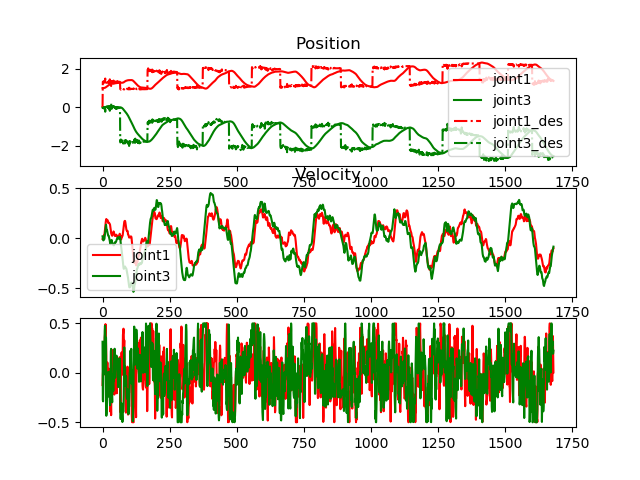
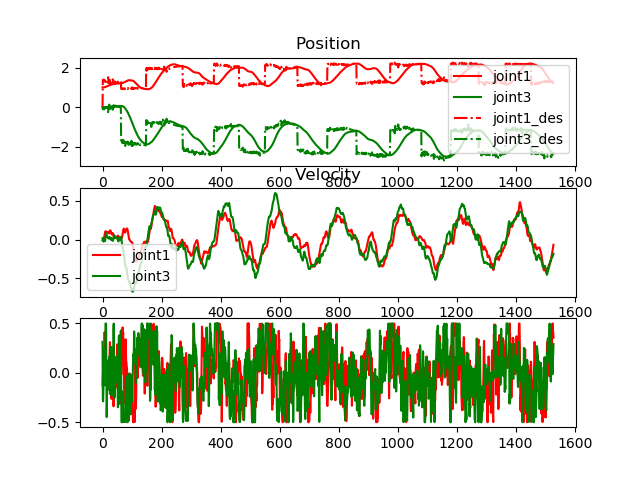
print->rospy.info

diff --git a/examples/multimodal_franka/FrankaMoveSDF.py b/examples/multimodal_franka/FrankaMoveSDF.py
@@ -2,6 +2,7 @@
 
 SDF collision design
 """
+
 from FrankaEnvBase import FrankaEnvBase
 from FilterPointCloud import FilterPointCloud
 from utils import LimitedQueue , IKProc
@@ -43,18 +44,19 @@ class MPCRobotController(FrankaEnvBase):
     def __init__(self, gym_instance , ik_mSolve):
         super().__init__(gym_instance = gym_instance)
         self._environment_init()
-        self.coll_movebound = [0.43,0.75]
-        self.coll_dt_scale = 0.008
-        self.uporient = 1.0
+        self.envpc_filter = FilterPointCloud(self.robot_sim.camObsHandle.cam_pose) #sceneCollisionNet 句柄 现在只是用来获取点云
+        self.coll_dt_scale = 0.015 # left and right
+        self.coll_movebound_leftright = [-0.30,0.30] # 左右实验的位置边界
+        # self.coll_dt_scale = 0.01 # up and down
+        # self.coll_movebound_updown = [0.48,0.85] # 上下实验的位置边界
+        self.uporient = -1.0
         self.thresh = 0.05 # goal next thresh in Cart
-        x,z,y = 0.46 , 0.50 , 0.45 # y,z 翻个个
-
-        self.goal_list = [
+        self.goal_list = [ # 两个目标点位置
              [0.20,0.30,-0.65],
-             [0.20,0.30,0.65],]
+             [0.20,0.30,0.65]]
         self.goal_state = self.goal_list[0]
         self.update_goal_state()
-        self.update_collision_state([x,y,0.0])
+        self.update_collision_state([0.46 ,0.50,0.0])
         self.rollout_fn = self.mpc_control.controller.rollout_fn
         self.goal_ee_transform = np.eye(4)
         # 暂行多进程方案是通过传参的方式 引导ik_proc句柄 保证ik_proc在主进程启动 避免无法共享内存的问题
@@ -64,7 +66,6 @@ class MPCRobotController(FrankaEnvBase):
         self.goal_flagi = 0 # 调控目标点
         sim_dt = self.mpc_control.exp_params['control_dt']
         t_step = gym_instance.get_sim_time()
-        envpc_filter = FilterPointCloud(self.robot_sim.camObsHandle.cam_pose) #sceneCollisionNet 句柄 现在只是用来获取点云
         obs = {}
         lap_count = 8 # 跑5轮次
         self.jnq_des = np.zeros(7)
@@ -77,28 +78,24 @@ class MPCRobotController(FrankaEnvBase):
             self.goal_flagi / len(self.goal_list) != lap_count:
             try:
                 opt_step_count += 1
+                t_step += sim_dt
                 self.gym_instance.step()
                 self.gym_instance.clear_lines()
                 # generate pointcloud 6ms
                 self.robot_sim.updateCamImage()
                 obs.update(self.robot_sim.ImageToPointCloud()) #耗时大！
-                envpc_filter._update_state(obs) 
+                self.envpc_filter._update_state(obs) 
                 # compute pointcloud to sdf_map 4.5ms
-                # mpc_control.controller.rollout_fn.primitive_collision_cost.robot_world_coll.world_coll._compute_dynamic_sdfgrid(scene_pc)
-                # self.collision_grid = self.mpc_control.controller.rollout_fn.primitive_collision_cost.robot_world_coll.world_coll. \
-                #                      _compute_dynamic_voxeltosdf(envpc_filter.cur_scene_pc, visual = True)
                 self.collision_grid = self.mpc_control.controller.rollout_fn.primitive_collision_cost.robot_world_coll.world_coll. \
-                                     _opt_compute_dynamic_voxeltosdf(envpc_filter.cur_scene_pc, visual = True)
+                                     _opt_compute_dynamic_voxeltosdf(self.envpc_filter.cur_scene_pc, visual = True)
                 # monitor ee_pose_gym and update goal_param_mpc
                 self.monitorMPCGoalupdate()
                 # seed goal to MPC_Policy _ get Command
-                t_step += sim_dt
                 self.current_robot_state = self.robot_sim.get_state(self.env_ptr, self.robot_ptr) # "dict: pos | vel | acc"
-
+                # 逆解获取请求发布 input_queue
                 qinit = self.current_robot_state['position'] # shape is (7,)
                 self.goal_ee_transform[:3,3] = self.rollout_fn.goal_ee_pos.cpu().numpy()
                 self.goal_ee_transform[:3,:3] = self.rollout_fn.goal_ee_rot.cpu().numpy()
-                # 逆解获取请求发布 input_queue
                 self.ik_mSolve.ik_procs[-1].ik(self.goal_ee_transform , qinit , ind = t_step)
                 opt_time_last = time.time()
                 command = self.mpc_control.get_command(t_step, self.current_robot_state, control_dt=sim_dt, WAIT=True)
@@ -117,8 +114,10 @@ class MPCRobotController(FrankaEnvBase):
                 curr_coll = self.mpc_control.controller.rollout_fn.primitive_collision_cost.current_state_collision
                 if (curr_coll > 0.95).any() : 
                     self.curr_collision += 1
-                    print(self.curr_collision, torch.nonzero(curr_coll>0.95).flatten().cpu().numpy())
-                self._dynamic_object_moveDesign()
+                    collision_info = "Collision Count: {}, Collisions: {}".format(self.curr_collision, torch.nonzero(curr_coll > 0.95).flatten().cpu().numpy())
+                    rospy.logwarn(collision_info)
+                # self._dynamic_object_moveDesign_updown()
+                self._dynamic_object_moveDesign_leftright()
                 self.traj_append()
                 # 逆解获取查询 output_queue
                 try :
@@ -129,29 +128,30 @@ class MPCRobotController(FrankaEnvBase):
                     else : 
                         self.rollout_fn.goal_jnq = None
                         self.jnq_des = np.zeros(7)
-                        print("warning: no iksolve")
+                        rospy.logwarn("warning: no iksolve")
                 except queue.Empty:
                     "针对 output_queue队列为空的问题 会出现queue.Empty的情况发生"
                     continue
 
             except KeyboardInterrupt:
-                print('Closing')
-
-        print("whole_time: ",time.time() - last, "opt_step_count:",opt_step_count ," collison_count: ",self.curr_collision, \
-              " opt_time_sum: ",opt_time_sum, " oneloop: ",(time.time() - last)/opt_step_count*1000 , " oneOpt: ",opt_time_sum/opt_step_count*1000)
+                rospy.logwarn('Closing')
+        rospy.loginfo("whole_time: {}, opt_step_count: {}, collison_count: {}, "
+                      "oneLoop: {}, oneOpt: {}".format(time.time() - last, opt_step_count, self.curr_collision, 
+                                                      (time.time() - last) / opt_step_count * 1000, 
+                                                       opt_time_sum / opt_step_count * 1000))
         # self.mpc_control.close()
         self.coll_robot_pub.unregister() 
         self.pub_env_pc.unregister()
         self.pub_robot_link_pc.unregister()
         self.plot_traj()
-        print("mpc_close...")
+        rospy.logwarn("mpc_close...")
         
 if __name__ == '__main__':
 
 
     ik_mSolve = IKSolve() # 多进程的问题 （应该是没有正确的解决 含有糊弄的成分 主要就像要让 IKProc在主进程启动 同时 在spawn之前启动）
     torch.multiprocessing.set_start_method('spawn', force=True)
-    torch.set_num_threads(8)
+    # torch.set_num_threads(8)
     torch.backends.cudnn.benchmark = False
     torch.backends.cuda.matmul.allow_tf32 = True
     torch.backends.cudnn.allow_tf32 = True

diff --git a/examples/multimodal_franka/FrankaEnvBase.py b/examples/multimodal_franka/FrankaEnvBase.py
@@ -333,12 +333,12 @@ class FrankaEnvBase(object):
         self.gym.set_rigid_transform(self.env_ptr, self.ee_base_handle, ee_pose)
 
         # if current_ee_pose in goal_pose thresh ,update to next goal_pose
-        if (np.linalg.norm(np.array(self.g_pos -cur_e_pos)) < self.thresh):
+        if (np.linalg.norm(np.array(self.g_pos - cur_e_pos)) < self.thresh):
             self.goal_state = self.goal_list[(self.goal_flagi+1) % len(self.goal_list)]
             self.update_goal_state()
             self.goal_flagi += 1
-            print("next goal",self.goal_flagi , " lap_count: ",self.goal_flagi / len(self.goal_list), " collison_count: ",self.curr_collision)
-            
+            log_message = "next goal: {}, lap_count: {}, collision_count: {}".format(self.goal_flagi, self.goal_flagi / len(self.goal_list), self.curr_collision)
+            rospy.loginfo(log_message)
 
         # gym_instance.clear_lines() 放在while初始，在订阅点云前清屏
         top_trajs = self.mpc_control.top_trajs.cpu().float()  # .numpy()
@@ -354,14 +354,25 @@ class FrankaEnvBase(object):
             self.gym_instance.draw_lines(pts, color=color)
 
      
-    def _dynamic_object_moveDesign(self):
+    def _dynamic_object_moveDesign_updown(self):
         # Update velocity vector based on move bounds and current pose
         collision_T = copy.deepcopy(self.world_instance.get_pose(self.collision_body_handle))
-        if collision_T.p.y < self.coll_movebound[0] or \
-           collision_T.p.y > self.coll_movebound[1] :
+        if collision_T.p.y < self.coll_movebound_updown[0] or \
+           collision_T.p.y > self.coll_movebound_updown[1] :
             self.uporient *= -1
         # Move the object based on the velocity vector
         collision_T.p.y += self.uporient * self.coll_dt_scale
+        self.gym.set_rigid_transform(
+            self.env_ptr, self.collision_base_handle, collision_T)
+        
+    def _dynamic_object_moveDesign_leftright(self):
+        # Update velocity vector based on move bounds and current pose
+        collision_T = copy.deepcopy(self.world_instance.get_pose(self.collision_body_handle))
+        if collision_T.p.z < self.coll_movebound_leftright[0] or \
+           collision_T.p.z > self.coll_movebound_leftright[1] :
+            self.uporient *= -1
+        # Move the object based on the velocity vector
+        collision_T.p.z += self.uporient * self.coll_dt_scale
         self.gym.set_rigid_transform(
             self.env_ptr, self.collision_base_handle, collision_T)
 

diff --git a/storm_kit/gym/sim_robot.py b/storm_kit/gym/sim_robot.py
@@ -169,12 +169,12 @@ class RobotSim():
 
         robot_lower_limits = robot_dof_props['lower']
         robot_upper_limits = robot_dof_props['upper']
-        print(
-            "robot_joint_names_:",robot_joint_names,
-            "\nrobot_lower_limits_:",robot_lower_limits,
-            "\nrobot_upper_limits_:",robot_upper_limits,
-            "\ndof_:",self.dof
-            )
+        # print(
+        #     "robot_joint_names_:",robot_joint_names,
+        #     "\nrobot_lower_limits_:",robot_lower_limits,
+        #     "\nrobot_upper_limits_:",robot_upper_limits,
+        #     "\ndof_:",self.dof
+        #     ) # 好的 我知道了
         
         if(init_state is None):
             if(self.init_state is None):

diff --git a/storm_kit/mpc/rollout/arm_base.py b/storm_kit/mpc/rollout/arm_base.py
@@ -141,7 +141,7 @@ class ArmBase(RolloutBase):
         self.ee_vel_cost = EEVelCost(ndofs=self.n_dofs,device=device, float_dtype=float_dtype,**exp_params['cost']['ee_vel'])
 
         bounds = torch.cat([self.dynamics_model.state_lower_bounds[:self.n_dofs * 3].unsqueeze(0),self.dynamics_model.state_upper_bounds[:self.n_dofs * 3].unsqueeze(0)], dim=0).T
-        print(bounds)
+        # print(bounds)
         self.bound_cost = BoundCost(**exp_params['cost']['state_bound'],
                                     tensor_args=self.tensor_args,
                                     bounds=bounds)

diff --git a/storm_kit/mpc/cost/primitive_collision_cost.py b/storm_kit/mpc/cost/primitive_collision_cost.py
@@ -75,7 +75,7 @@ class PrimitiveCollisionCost(nn.Module):
         self.proj_gaussian = GaussianProjection(gaussian_params=gaussian_params)
 
         robot_collision_params = robot_params['robot_collision_params']
-        print(robot_collision_params)
+        # print(robot_collision_params)
         self.batch_size = -1
         # BUILD world and robot:
         self.robot_world_coll = RobotWorldCollisionPrimitive(robot_collision_params,

diff --git a/storm_kit/differentiable_robot_model/urdf_utils.py b/storm_kit/differentiable_robot_model/urdf_utils.py
@@ -163,7 +163,7 @@ class URDFRobotModel(object):
             body_params['mass'] = None
             body_params['com'] = None
             body_params['inertia_mat'] = None
-            print("no dynamics information for link: {}".format(link.name))
+            # print("no dynamics information for link: {}".format(link.name)) # 看不懂的不要出来烦我！
 
         return body_params
 

diff --git a/storm_kit/geom/sdf/robot.py b/storm_kit/geom/sdf/robot.py
@@ -375,7 +375,6 @@ class RobotSphereCollision:
             clone_pose (bool, optional): clones pose. Defaults to True.
             batch_size ([type], optional): batch_size to clone. Defaults to None.
         """        
-        print("调用了--batch_features")
         if(batch_size is not None):
             self.batch_size = batch_size
         if(clone_objs):
